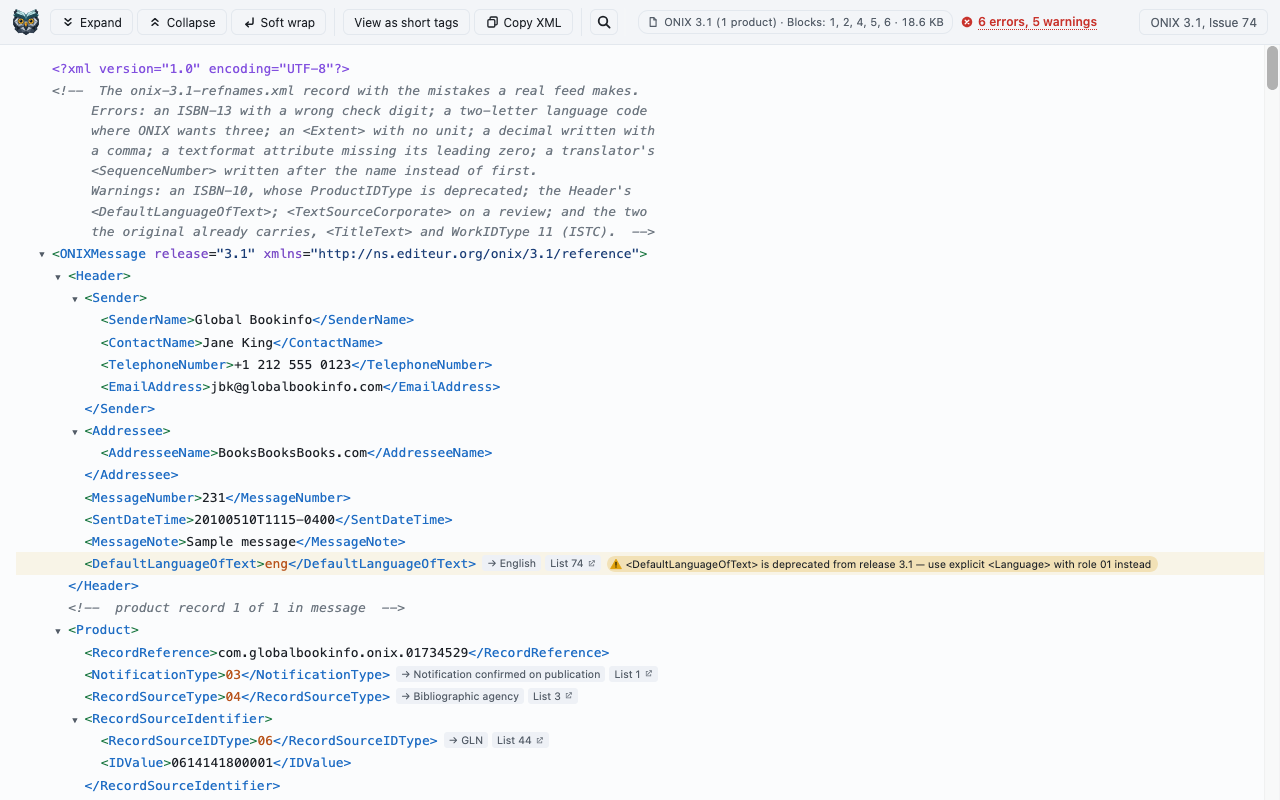
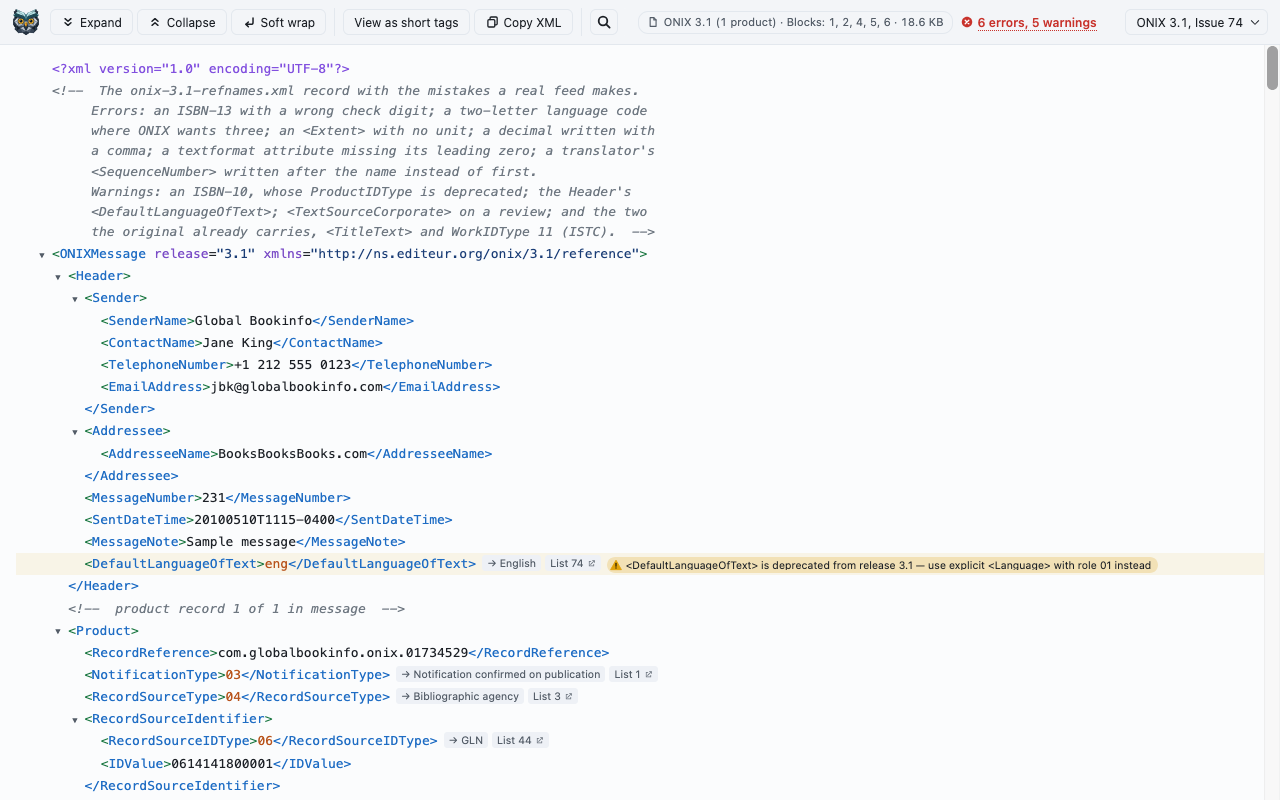
Keep the release selector: a 3.0 document can be judged as 3.1 by choice

diff --git a/tests/cases/38-held-back-features.test.js b/tests/cases/38-held-back-features.test.js
@@ -1,19 +1,17 @@
-// What ships while the custom-rules editor and the release selector are held
-// back: no cog, no rules read from the page, the release pill a fact rather
-// than a choice. The features' own tests (32, 33, 37) turn them on through
-// window.OnixViewerFeatures; these run with the shipped defaults.
+// What ships while the custom-rules editor is held back: no cog, and no
+// rules read from the page. The feature's own tests (32, 33) turn it on
+// through window.OnixViewerFeatures; these run with the shipped defaults.
 const fs = require("fs");
 const path = require("path");
-const { test, describe, assert, render, renderSource, validationLabel, RES, FIXTURES } = require("../harness");
+const { test, describe, assert, render, renderSource, validationLabel, FIXTURES } = require("../harness");
 
 const HOUSE_RULES = fs.readFileSync(path.join(FIXTURES, "house-rules.sch"), "utf8");
 const VALID = fs.readFileSync(path.join(FIXTURES, "onix-3.1-valid.xml"), "utf8");
 
 describe("Held-back features", () => {
-  test("the shipped defaults hold both features off", () => {
+  test("the shipped default holds the custom rules off", () => {
     const w = render("onix-3.1-valid.xml");
-    assert(w.OnixViewerFeatures.customRules === false && w.OnixViewerFeatures.releaseSelector === false,
-      `got ${JSON.stringify(w.OnixViewerFeatures)}`);
+    assert(w.OnixViewerFeatures.customRules === false, `got ${JSON.stringify(w.OnixViewerFeatures)}`);
   });
 
   test("the toolbar has no cog, and a rules block on the page is ignored", () => {
@@ -29,26 +27,15 @@ describe("Held-back features", () => {
     assert(!w.document.getElementById("oxv-rules"), "and no editor was built");
   });
 
-  test("the release pill states the document's release and offers no choice", () => {
-    for (const [fixture, release] of [["onix-3.0-reference.xml", "3.0"], ["onix-3.1-valid.xml", "3.1"], ["onix-2.1-doctype.xml", "2.1"]]) {
-      const w = render(fixture);
-      const select = w.document.getElementById("oxv-release");
-      assert(select.disabled, `${fixture}: not a control`);
-      assert(select.options.length === 1 && select.value === release, `${fixture}: one option, ${release}; got ${select.value}`);
-      assert(select.parentElement.classList.contains("px-static"), `${fixture}: styled as the plain pill`);
-      assert(select.options[0].textContent.startsWith(`ONIX ${release}`), `${fixture}: reads ONIX ${release}`);
-    }
-  });
-
-  test("the plain pill draws no chevron", () => {
-    const css = fs.readFileSync(path.join(RES, "viewer.css"), "utf8");
-    assert(/#oxv-release-group\.px-static::after\s*\{\s*display:\s*none;/.test(css), "the chevron rule is off for px-static");
-  });
-
-  test("turned on, the cog and the choice come back", () => {
-    const w = render("onix-3.1-valid.xml", (win) => { win.OnixViewerFeatures = { customRules: true, releaseSelector: true }; });
-    assert(w.document.querySelector('#oxv-toolbar [data-action="rules"]'), "the cog");
+  test("the release selector is not held back: the document's release is the default, the other a choice", () => {
+    const w = render("onix-3.0-reference.xml");
     const select = w.document.getElementById("oxv-release");
-    assert(!select.disabled && select.options.length === 2, "the two bundled releases to choose from");
+    assert(!select.disabled && select.value === "3.0", `starts on the document's release; got ${select.value}`);
+    assert([...select.options].map((o) => o.value).join() === "3.0,3.1", "and offers both bundled releases");
+  });
+
+  test("turned on, the cog comes back", () => {
+    const w = render("onix-3.1-valid.xml", (win) => { win.OnixViewerFeatures = { customRules: true }; });
+    assert(w.document.querySelector('#oxv-toolbar [data-action="rules"]'), "the cog");
   });
 });

diff --git a/Resources/viewer.js b/Resources/viewer.js
@@ -59,15 +59,13 @@
 
   // ---- held-back features ---------------------------------------------------
 
-  // Two features are built and tested but off in the shipped build until
-  // they are ready: the custom-rules editor behind the toolbar's cog, and the
-  // manual release selector. With both off the release to validate against
-  // is chosen from the document alone, the cog is not in the toolbar, and
-  // the manifest asks for no permission at all. Their tests turn them on
-  // through window.OnixViewerFeatures before the viewer loads; content.js
-  // carries its own copy of the customRules switch, since it runs in the
-  // other world.
-  const FEATURES = Object.assign({ customRules: false, releaseSelector: false }, window.OnixViewerFeatures);
+  // The custom-rules editor behind the toolbar's cog is built and tested but
+  // off in the shipped build until it is ready: the cog is not in the
+  // toolbar, a rules block on the page is ignored, and the manifest asks for
+  // no permission at all. Its tests turn it on through
+  // window.OnixViewerFeatures before the viewer loads; content.js carries
+  // its own copy of the switch, since it runs in the other world.
+  const FEATURES = Object.assign({ customRules: false }, window.OnixViewerFeatures);
   window.OnixViewerFeatures = FEATURES;
 
   // ---- icons ----------------------------------------------------------------
@@ -1199,14 +1197,6 @@
       addReleaseOption(select, declared || "", releaseLabel(declared));
       select.disabled = true;
       select.title = "Acknowledgement messages have their own schema, which isn't bundled; code lists are still checked";
-      return;
-    }
-    if (!FEATURES.releaseSelector) {
-      // The plain pill: the release the document declares, and no choice.
-      addReleaseOption(select, declared || "", releaseLabel(declared));
-      select.disabled = true;
-      select.parentElement.classList.add("px-static");
-      select.title = declared ? `Validated against ONIX ${declared}` : "No release declared; only the code lists are checked";
       return;
     }
     const releases = bundledReleases();

diff --git a/tests/browser/run.js b/tests/browser/run.js
@@ -181,8 +181,7 @@ async function main() {
   try {
     await takeover(browser, served);
     const features = await heldBack(browser, served);
-    if (features.releaseSelector) await releaseSelector(browser, served);
-    else console.log("\nThe release selector is held back; its test is skipped");
+    await releaseSelector(browser, served);
     await schematronInChrome(browser, served);
     if (features.customRules) await rulesRoundTrip(browser, served);
     else console.log("\nThe rules editor is held back; the storage round trip is skipped");
@@ -198,8 +197,8 @@ async function main() {
   }
 }
 
-// The shipped build has both features off (viewer.js FEATURES); the tests
-// that drive them through the real UI run only when they are on.
+// The shipped build has the custom rules off (viewer.js FEATURES); the test
+// that drives the editor through the real UI runs only when it is on.
 async function heldBack(browser, served) {
   const page = await open(browser, served.url("onix-3.1-valid.xml"));
   const features = await page.evaluate(() => window.OnixViewerFeatures);

diff --git a/tests/cases/37-release-select.test.js b/tests/cases/37-release-select.test.js
@@ -1,17 +1,8 @@
 const fs = require("fs");
 const path = require("path");
 const {
-  test, describe, assert, findings, codes, validationLabel, RES,
+  test, describe, assert, render, renderSource, findings, codes, validationLabel, RES,
 } = require("../harness");
-const harness = require("../harness");
-
-// The feature is held back in the shipped build; these tests turn it on.
-const enabled = (before) => (w) => {
-  w.OnixViewerFeatures = { releaseSelector: true };
-  if (before) before(w);
-};
-const render = (name, before) => harness.render(name, enabled(before));
-const renderSource = (xml, label, before, models) => harness.renderSource(xml, label, enabled(before), models);
 
 // The toolbar's release selector: the verdict is against the release the
 // document declares unless the reader picks the other bundled one. 3.0 and

diff --git a/Resources/viewer.css b/Resources/viewer.css
@@ -418,10 +418,6 @@ body:not(.px-search-open) #oxv-search-status { display: none; }
   color: var(--fg);
 }
 #oxv-release-group:has(> :disabled)::after { color: var(--fg-muted); }
-/* With the selector held back (viewer.js FEATURES) the box is the plain
-   pill it used to be: no chevron, no room kept for one. */
-#oxv-release-group.px-static::after { display: none; }
-#oxv-release-group.px-static > #oxv-release { padding-right: 10px; }
 #oxv-release-group:has(> #oxv-release:empty) { display: none; }
 #oxv-release option { color: var(--fg); background: var(--bg); }
 

diff --git a/tests/cases/22-dialect-toggle.test.js b/tests/cases/22-dialect-toggle.test.js
@@ -75,7 +75,7 @@ describe("Dialect toggle", () => {
     const shown = select.options[select.selectedIndex].textContent;
     assert(shown === "ONIX 3.0, Issue 74", `got: ${shown}`);
     assert(!shown.includes("EDItEUR"), "the vendor name is not needed here");
-    assert(/^Validated? against/.test(select.title), `got: ${select.title}`);
+    assert(select.title.startsWith("Validate against this ONIX release"), `got: ${select.title}`);
   });
 
   test("the document pill is one unit: icon, what it is, its blocks, its size", () => {

diff --git a/CHANGELOG.md b/CHANGELOG.md
@@ -6,12 +6,11 @@ the main branch.
 ## Unreleased
 
 ### Held back
-Built and tested, and in the code behind switches that are off in 0.9.20
-(`FEATURES` in `viewer.js`, `CUSTOM_RULES` in `content.js`): the release
-selector, and the custom-rules editor with its cog and its `storage`
-permission. Until they ship, the release to validate against is the one the
-document declares, the toolbar has no cog, and the manifest asks for no
-permission at all.
+Built and tested, and in the code behind a switch that is off in 0.9.20
+(`FEATURES.customRules` in `viewer.js`, `CUSTOM_RULES` in `content.js`): the
+custom-rules editor with its cog and its `storage` permission. Until it
+ships, the toolbar has no cog and the manifest asks for no permission at
+all.
 
 - **Your own validation rules, written as Schematron.** A cog in the
   toolbar opens an editor; paste a rule set of `<pattern>`, `<rule
@@ -24,18 +23,6 @@ permission at all.
   `role="warning"` the severity. Problems with a rule set are listed in the
   editor and reported as warnings rather than thrown. The rule set is kept
   in the extension's storage, so it follows you from page to page.
-- **The code-list issue pill is now a release selector.** It still reads
-  `ONIX 3.1, Issue 74`, but its options judge the document against ONIX 3.0
-  or 3.1, whichever the reader picks; it starts on the release the file
-  declares. 3.0 and 3.1 disagree about what is an error
-  and what a warning — `<AudienceCode>` is deprecated in 3.0 and unknown to
-  3.1 — so a feed about to move between them can be read both ways, and a
-  standalone `<Product>` with no namespace, which declares nothing, can be
-  checked structurally at all. The other release's content model is fetched
-  the first time it is asked for, so a page still loads one model. Under an
-  override the `release` attribute is not judged, since it can only
-  disagree, and the verdict's note says which release was checked and which
-  the file declares. The choice is not remembered between documents.
 - **The custom-rules cog shows a dot** in its corner while a rule set is
   installed, in place of the accent fill, which read as a button stuck down.
 - **The rules editor is larger, and resizes**: 860px wide with a taller
@@ -48,6 +35,18 @@ permission at all.
 ## 0.9.20 — 2026-09-29
 
 ### Added
+- **The code-list issue pill is now a release selector.** It still reads
+  `ONIX 3.1, Issue 74`, but its options judge the document against ONIX 3.0
+  or 3.1, whichever the reader picks; it starts on the release the file
+  declares. 3.0 and 3.1 disagree about what is an error
+  and what a warning — `<AudienceCode>` is deprecated in 3.0 and unknown to
+  3.1 — so a feed about to move between them can be read both ways, and a
+  standalone `<Product>` with no namespace, which declares nothing, can be
+  checked structurally at all. The other release's content model is fetched
+  the first time it is asked for, so a page still loads one model. Under an
+  override the `release` attribute is not judged, since it can only
+  disagree, and the verdict's note says which release was checked and which
+  the file declares. The choice is not remembered between documents.
 - **A new owl.** The icon is redrawn as vector artwork, `icons/icon-original.svg`,
   with hand-drawn sizes for everything small, and `npm run icons` is the whole
   of an icon change: it renders the nine shipped sizes, copies the 128 to the
